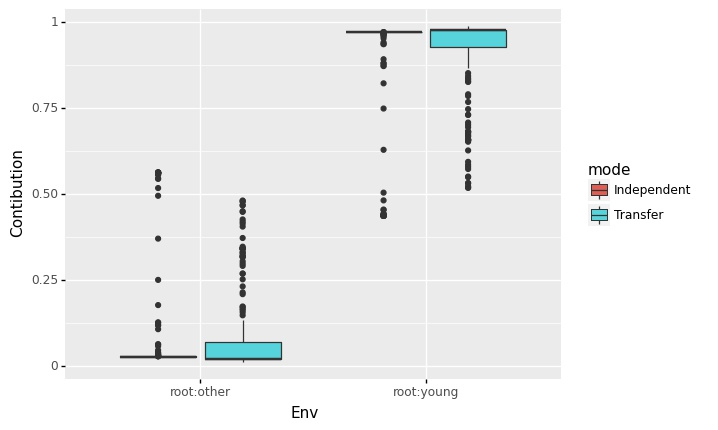
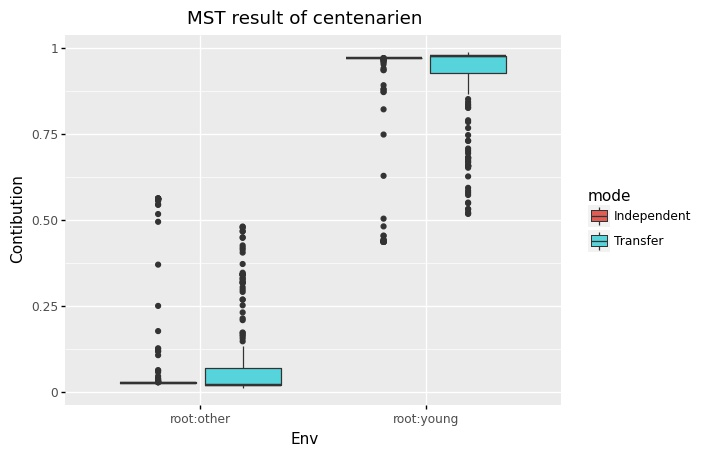
update boxplot

diff --git a/mst_binary/result/box_plot.py b/mst_binary/result/box_plot.py
@@ -21,7 +21,9 @@ if __name__ == '__main__':
     
     centenarienBox = (ggplot(centenarienData, aes(x='variable', y='value', fill='mode'))+
     	    	    	geom_boxplot()+
+			ggtitle('MST result of centenarien')+
 			xlab('Env')+
-			ylab('Contibution'))
+			ylab('Contibution')+
+			theme(plot_title=element_text(hjust=0.5)))
     centenarienBox.save('centenarienBox.jpg')
     
